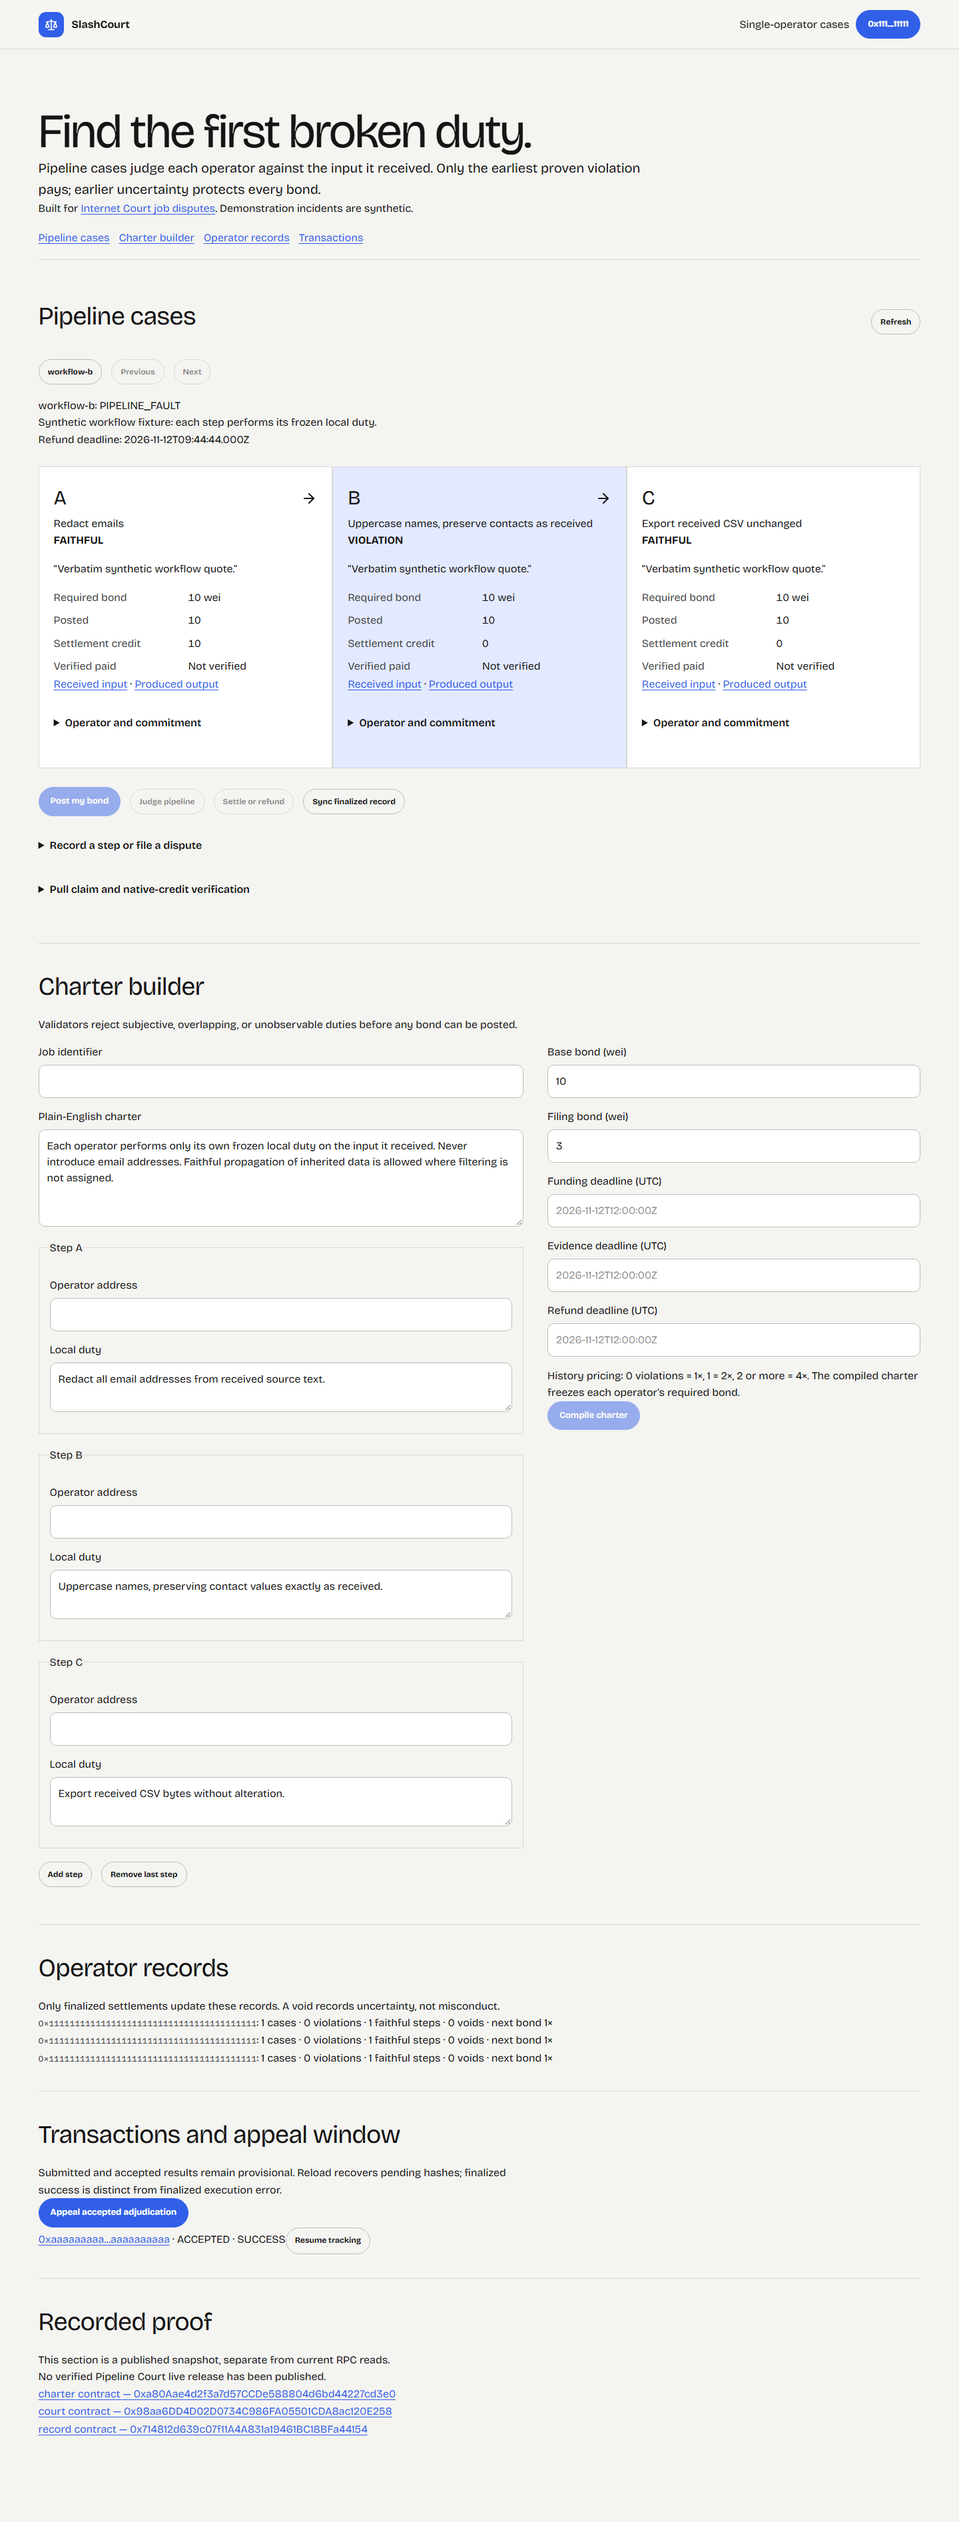
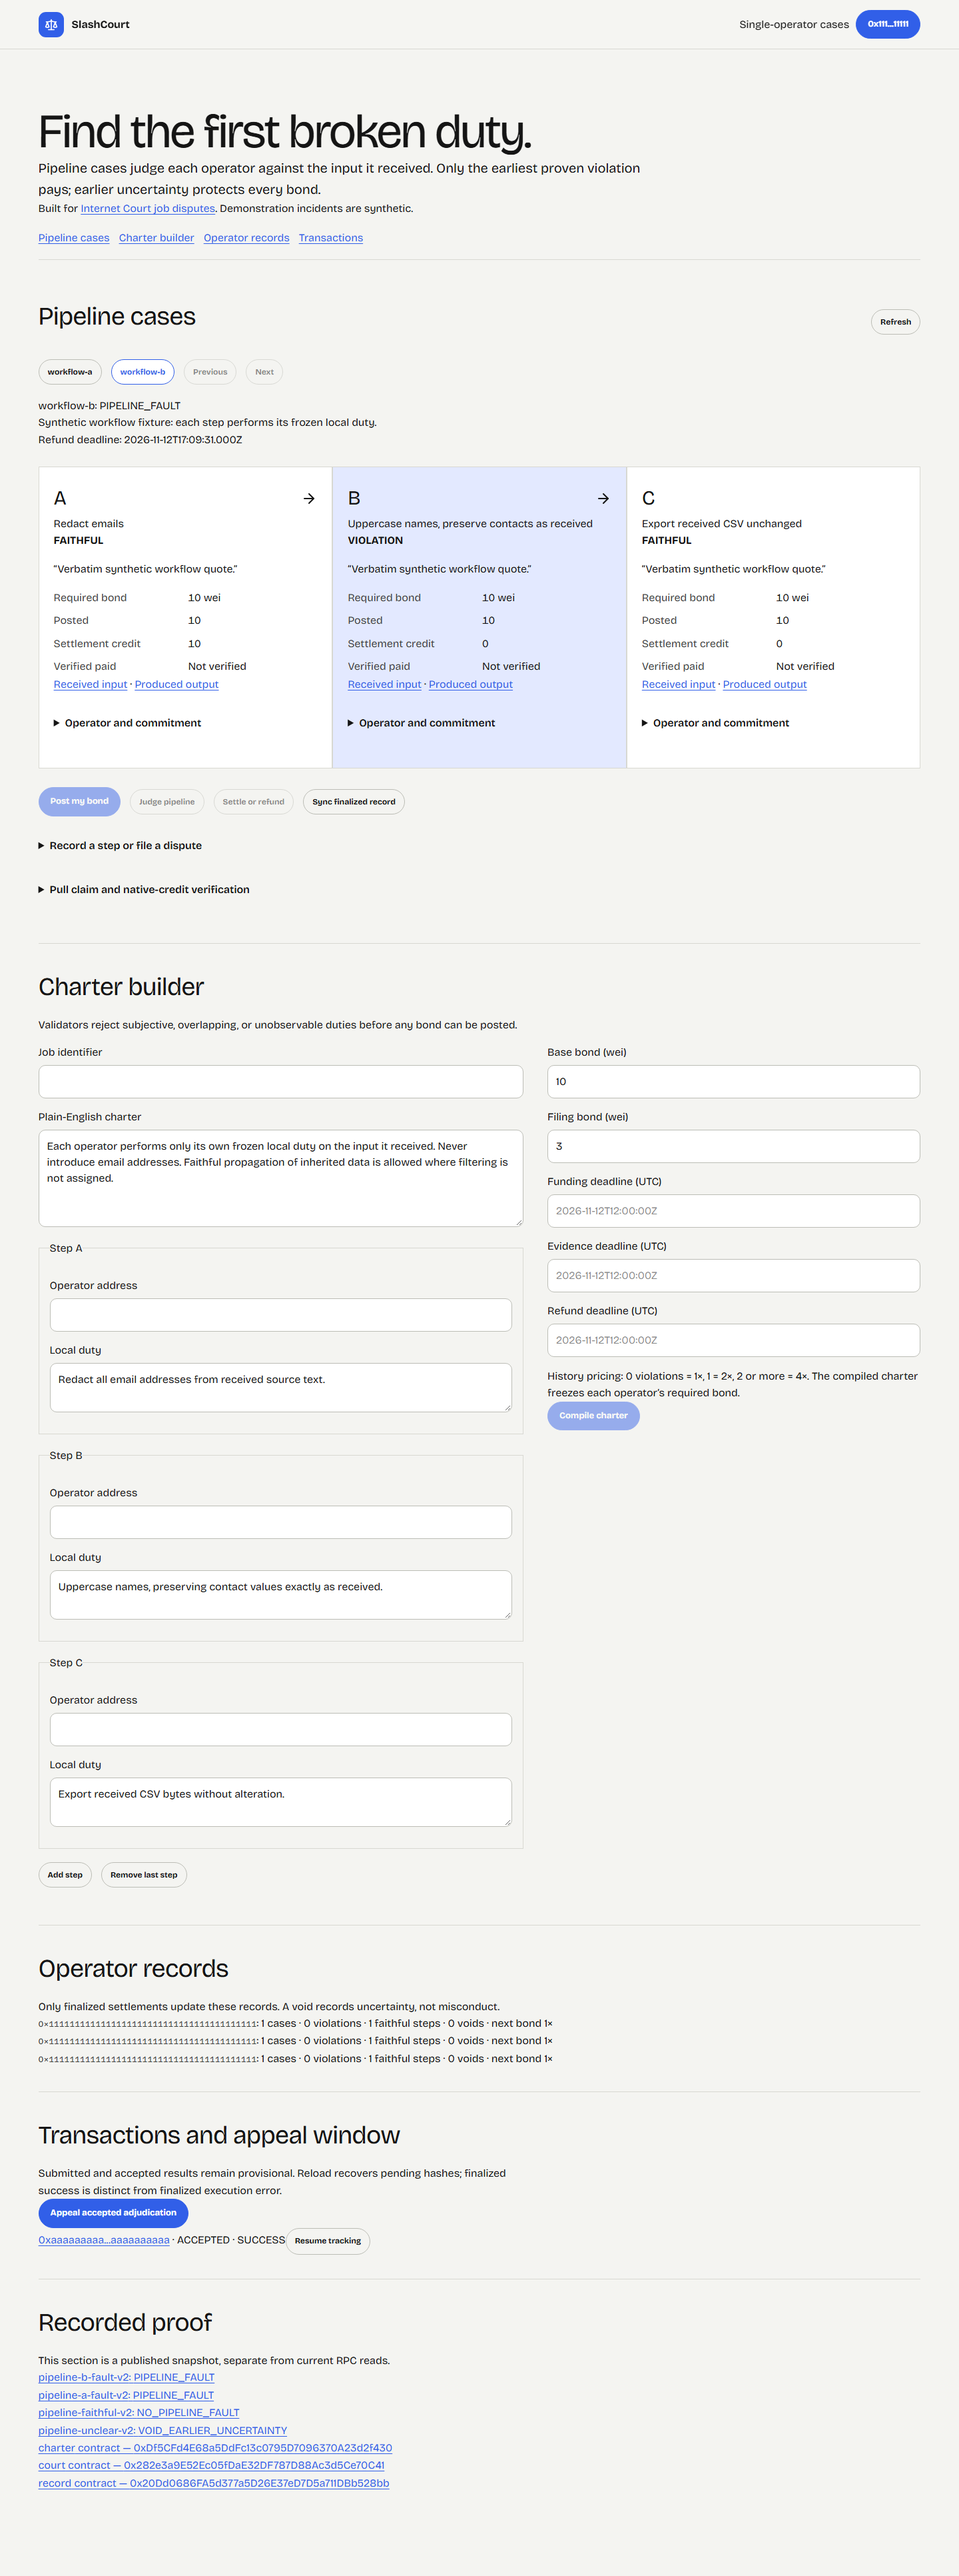
Fix pipeline case selection race with hash navigation

diff --git a/frontend/app/pipeline/page.tsx b/frontend/app/pipeline/page.tsx
@@ -123,7 +123,7 @@ export default function PipelinePage() {
     } catch (e) {setError(e instanceof Error ? e.message : String(e)); setBusy(false); return false;}
   }
 
-  function select(next: string) {readGeneration.current++; setJob(null); setCaseData(null); setId(next); location.hash = `case=${encodeURIComponent(next)}`;}
+  function select(next: string) {location.hash = `case=${encodeURIComponent(next)}`;}
   const canWrite = Boolean(client && wallet.connected && wallet.onGenLayer && !busy && !loading);
   const ownStep = job?.steps.find(s => s.operator.toLowerCase() === wallet.address?.toLowerCase());
   const now = Date.now() / 1000;
